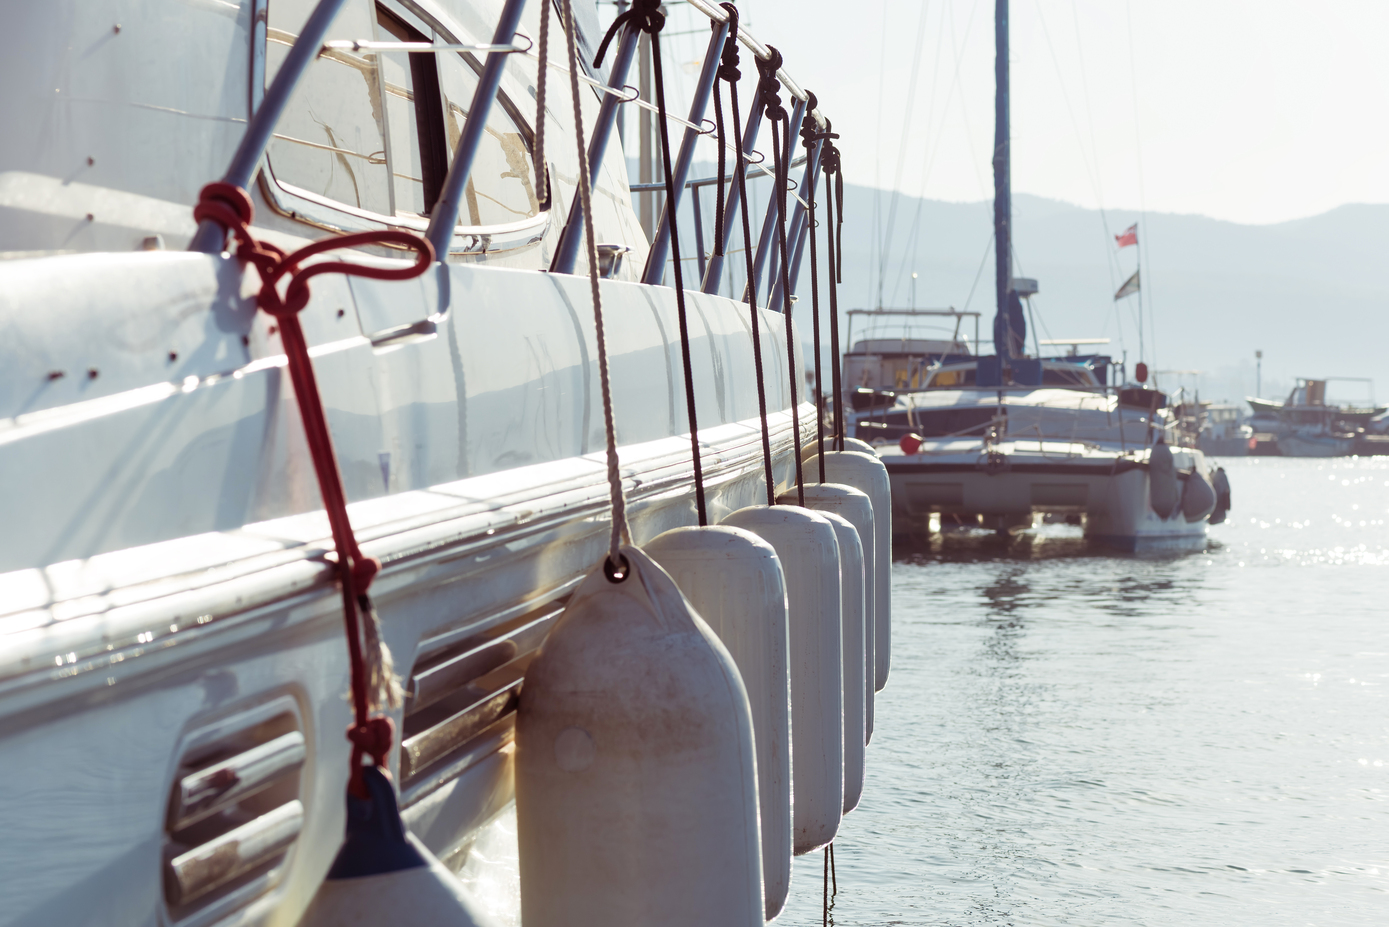
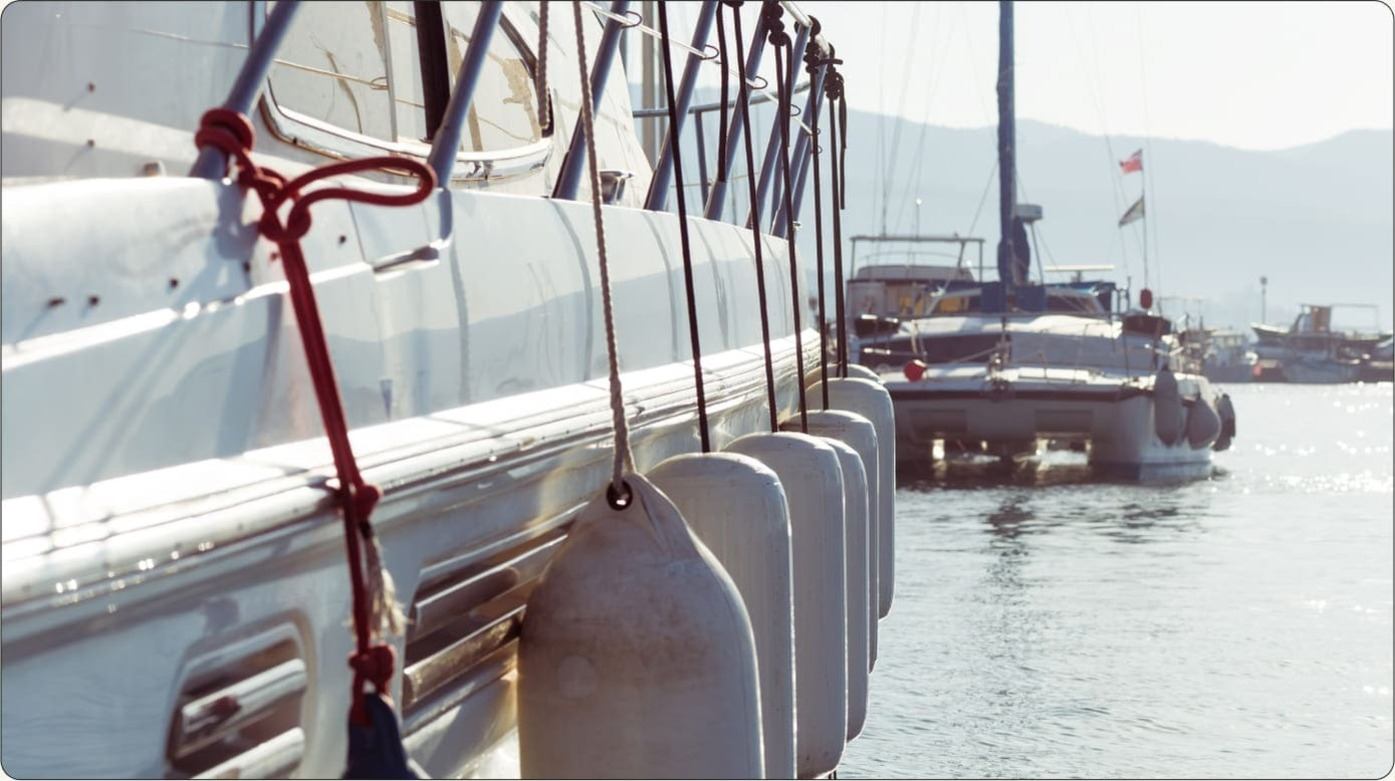
update slider

diff --git a/src/js/slider.js b/src/js/slider.js
@@ -5,12 +5,15 @@ let width;
 
 function init() {
 console.log('resize')
+
 width = document.querySelector('.about__slider').offsetWidth;
-sliderLine.style.width = width * images.length + 'px';
+
 images.forEach(item =>{
-    item.style.width = width + 'px'
+    console.log('item', item.offsetWidth);
+    item.style.width = width + 'px';
     item.style.height = 'auto'
 })
+sliderLine.style.width = width * images.length + 'px';
 rollSlider()
  console.log(width)
 }
@@ -20,9 +23,13 @@ rollSlider()
  init ()
 
  document.querySelector('.about__slider-right').addEventListener('click', function(){
-    count --;
-    if (count < 0) {
-        count = images.length - 1
+    // count --;
+    // if (count < 0) {
+    //     count = images.length - 1
+    // }
+    count ++;
+    if (count >= images.length) {
+        count = 0
     }
 
     rollSlider()
@@ -30,9 +37,13 @@ rollSlider()
  });
 
  document.querySelector('.about__slider-left').addEventListener('click', function(){
-    count ++;
-    if (count >= images.length) {
-        count = 0
+    // count ++;
+    // if (count >= images.length) {
+    //     count = 0
+    // }
+    count --;
+    if (count < 0) {
+        count = images.length - 1
     }
 
     rollSlider()

diff --git a/src/sass/layout/_about.scss b/src/sass/layout/_about.scss
@@ -87,10 +87,9 @@
   }
 
   &__slider {
-    //border: solid 3px red;
     display: flex;
     width: 1389px;
-
+    padding: 0;
     flex-direction: column;
     align-items: center;
     gap: 40px;
@@ -99,15 +98,20 @@
   }
 
   &__slider-line {
+    height: 778px;
+    max-width: 1393px;
     display: flex;
     background-color: rgba(128, 128, 128, 0.5);
     background-repeat: no-repeat;
     background-size: cover;
+    border-radius: 20px;
 
     transition: all ease 1s;
+  }
 
-    // border-radius: 20px;
-    // border: 1px solid var(--black-);
+  &__slider-line img {
+    width: 100%;
+    height: auto;
   }
 
   &__slider-btn {
@@ -175,7 +179,7 @@
   }
 }
 
-.about__slider-line img:first-child {
+.about__slider-line img {
   border-radius: 20px;
-  border: 1px solid var(--black-);
+  border: 1px solid var(--black1);
 }

diff --git a/src/partials/about.html b/src/partials/about.html
@@ -79,10 +79,11 @@
       </li>
     </ul>
   </div>
+
   <div class="about__slider">
     <div class="about__slider-line">
-      <img src="./images/sliderm01.jpg" alt="" />
-      <img src="./images/sliderm02.jpg" alt="" />
+      <img src="./images/sliderm01.jpg" alt="boat" />
+      <img src="./images/sliderm02.jpg" alt="noad" />
       <img src="./images/sliderm03.jpg" alt="" />
       <img src="./images/sliderm04.jpg" alt="" />
       <img src="./images/sliderm05.jpg" alt="" />
